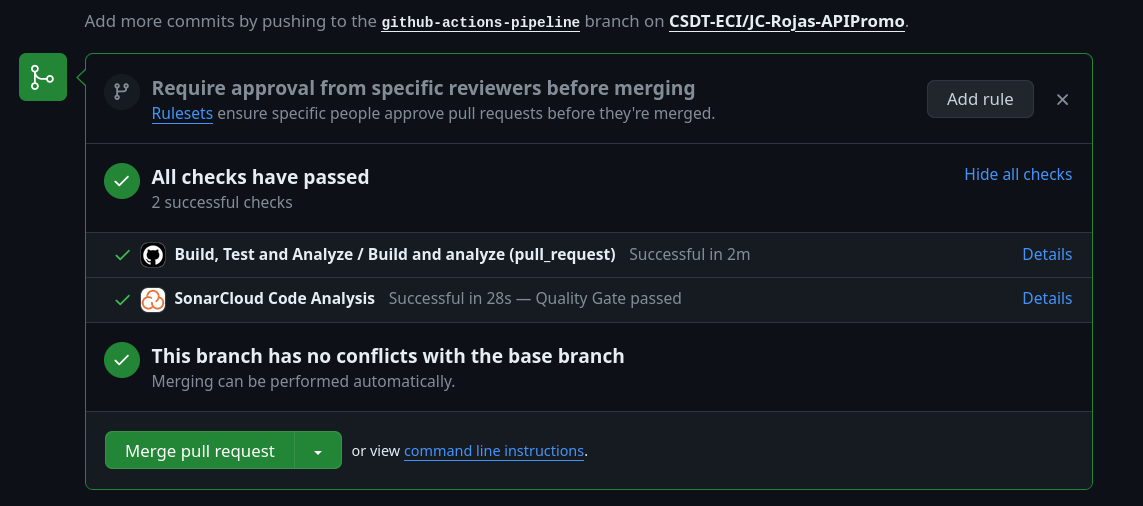
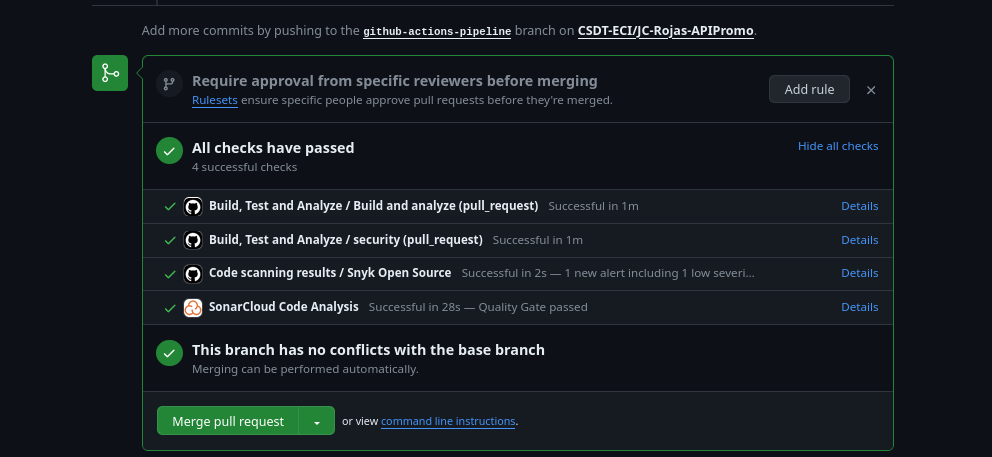
docs

diff --git a/CSDT-2024.md b/CSDT-2024.md
@@ -5,10 +5,11 @@ presente en el proyecto APIPromo tomado desde el siguiente [repositorio](https:/
 para eso se documentarán las distintas etapas de mejora en archivos independientes y se presentarán en la siguiente tabla
 
 
-| Etapa                                 | Descripción                                                                                                                                                                                                                                                               | Archivo                                                                          |
-|---------------------------------------|---------------------------------------------------------------------------------------------------------------------------------------------------------------------------------------------------------------------------------------------------------------------------|----------------------------------------------------------------------------------|
-| Análisis Inicial                      | Se inspecciona el proyecto original para entender el estado inicial del proyecto y las posibles mejoras en aspectos como el código, la documentación y las pruebas                                                                                                        | [Etapa1-estado-inicial.md](resources%2FEtapa1-estado-inicial.md)                 |
-| Análisis de clean code y prácticas XP | Sobre el código inicial se analiza el cumplimiento de algunos entádares de clean code como SOLID,YAGNI,KISS y DRY. Adicionalmente se analizan que prácticas XP podrían aportar a mejorar la calidad el proyecto y se realizan algunas modificaciones sobre el código      | [Etapa2-clean-code-y-XP.md](resources%2FEtapa2-clean-code-y-XP.md)               |
-| Preparación para pruebas              | Se realizaron ajustes sobre el proyecto para obtener una versión ejecutable, se actualizaron algunas configuraciones para facilitar el desarrollo                                                                                                                         | Pendiente                                                                        |
-| Deuda técnica en pruebas              | Sobre el código inicial se analizan la deuda técnica en pruebas, y se proponen las pruebas para el modulo core del proyecto donde se encuentra la lógica utilizada por distintos servicios, los modulos relacionados a user,promo o area se dejan para etapas posteriores | [Etapa3-testing-debt.md](resources%2FEtapa3-testing-debt.md)                     |
-| Análisis Devex, productividad e IA    | Se realiza el análisis del proyecto en terminos de devex y productividad, como los cambios hasta ahora han impactado en estos aspectos, adicionalmente se evalua las capacidades de github copilot para apoyar las tareas de desarrollo sobre el proyecto                 | [Etapa4-Devex-Productividad-IA.md](resources%2FEtapa4-Devex-Productividad-IA.md) |
+| Etapa                                     | Descripción                                                                                                                                                                                                                                                               | Archivo                                                                          |
+|-------------------------------------------|---------------------------------------------------------------------------------------------------------------------------------------------------------------------------------------------------------------------------------------------------------------------------|----------------------------------------------------------------------------------|
+| Análisis Inicial                          | Se inspecciona el proyecto original para entender el estado inicial del proyecto y las posibles mejoras en aspectos como el código, la documentación y las pruebas                                                                                                        | [Etapa1-estado-inicial.md](resources%2FEtapa1-estado-inicial.md)                 |
+| Análisis de clean code y prácticas XP     | Sobre el código inicial se analiza el cumplimiento de algunos entádares de clean code como SOLID,YAGNI,KISS y DRY. Adicionalmente se analizan que prácticas XP podrían aportar a mejorar la calidad el proyecto y se realizan algunas modificaciones sobre el código      | [Etapa2-clean-code-y-XP.md](resources%2FEtapa2-clean-code-y-XP.md)               |
+| Preparación para pruebas                  | Se realizaron ajustes sobre el proyecto para obtener una versión ejecutable, se actualizaron algunas configuraciones para facilitar el desarrollo                                                                                                                         | Pendiente                                                                        |
+| Deuda técnica en pruebas                  | Sobre el código inicial se analizan la deuda técnica en pruebas, y se proponen las pruebas para el modulo core del proyecto donde se encuentra la lógica utilizada por distintos servicios, los modulos relacionados a user,promo o area se dejan para etapas posteriores | [Etapa3-testing-debt.md](resources%2FEtapa3-testing-debt.md)                     |
+| Análisis Devex, productividad e IA        | Se realiza el análisis del proyecto en terminos de devex y productividad, como los cambios hasta ahora han impactado en estos aspectos, adicionalmente se evalua las capacidades de github copilot para apoyar las tareas de desarrollo sobre el proyecto                 | [Etapa4-Devex-Productividad-IA.md](resources%2FEtapa4-Devex-Productividad-IA.md) |
+| Deuda técnica de procesos: Github actions | Se realiza la implementación de un pipeline de integración continua (CI) en el que se construye el proyecto y se validan las pruebas, se realiza un análisis estático de código utilizando sonar y un análisis de seguridad usando Snyk                                   | [Etapa5-GithubActions.md](resources%2FEtapa5-GithubActions.md)                   |

diff --git a/resources/Etapa5-GithubActions.md b/resources/Etapa5-GithubActions.md
@@ -1,0 +1,71 @@
+# Deuda técnica de procesos
+El proyecto no cuenta con pipelines que faciliten la integración o el despliegue del mismo.
+por lo que en esta etapa se propone construir un pipeline que realice la continua construcción,
+ejecución de pruebas y análisis estático del código del proyecto, de esta manera se puede mejorar tanto la experiencia
+del desarrollador al ofrecer feedback continuo y oportuno como el proceso de desarrollo al añadir validación constante
+sobre la calidad del código.
+
+## Pipeline de integración continua
+Los requisitos mínimos para este pipeline de integración continua son los siguientes:
+- Construcción del proyecto (build)
+- Ejecución de pruebas (test)
+- Análisis de sonar (sonar)
+
+Adicionalmente se proponen las siguientes etapas
+- Asegurar los estándares de estilo de kotlin (klintCheck)
+- Análisis de seguridad del proyecto (snyk)
+
+## Detalles de la implementación y resultados
+Se utiliza `gradle` para administrar el ciclo de vida del proyecto y las etapas de build, test, sonar y ktlintCheck,
+se realizan las siguiente configuraciones sobre el proyecto de gradle para agrupar algunas de las tareas.
+
+```kotlin
+tasks.named("check") {
+    dependsOn(tasks.named("ktlintCheck"))
+}
+
+tasks.withType<SonarTask> {
+    dependsOn(tasks.named("check"))
+    dependsOn(tasks.named("jacocoTestReport"))
+}
+```
+
+Teniendo en cuenta que la fase de check construye el proyecto y ejecuta las pruebas, ahora adicionalmente 
+analizará los estándares de estilo. De esta forma basta con utilizar la fase `sonar` para cumplir con
+todas las etapas planteadas para el pipeline
+
+El análisis de sonar inicial obtuvo el siguiente resultado:
+
+![InitialAnalysis.png](img%2FgithubActions%2FInitialAnalysis.png)
+
+Dado que el proyecto no cuenta con la suficiente cobertura de pruebas, fue necesario modificar el quality gate
+para que permita continuar con el desarrollo, pero asegurando que la calidad se va a mantener, por lo que se decide reducir 
+la cobertura requerida a 30%, asegurando que la cobertura de pruebas no disminuirá en el futuro. Este quality gate debe
+evolucionar según mejore la cobertura del proyecto hasta alcanzar el 80% que se propone en el quality gate original.
+A continuación se muestra el quality gate utilizado
+
+![updatedQualityGate.png](img%2FgithubActions%2FupdatedQualityGate.png)
+
+Posteriormente a la actualización de el quality gate, vemos que el proyecto cumple con los requisitos, lo que permitiría
+continuar con el Pull Request
+
+![AnalysisAfterQualityGateUpdate.png](img%2FgithubActions%2FAnalysisAfterQualityGateUpdate.png)
+
+
+
+Para realizar el análisis de seguridad se utilizó la tarea `snyk/actions/gradle-jdk17@master` presente en el marketplace de
+github actions y que permite analizar vulnerabilidades en proyectos de gradle en Java 17. A continuación se presentan los resultados iniciales
+
+![snykInitialResult.png](img%2FgithubActions%2FsnykInitialResult.png)
+
+A partir de este análisis se identificaron vulnerabilidades en algunas de las dependencias relacionadas a spring, por lo
+que se actualizaron las dependencias a las versiones sugeridas para finalmente obtener que el PR pasa todas las validaciones
+requeridas y configuradas en el pipeline
+
+![PRPassingChecks.png](img%2FgithubActions%2FPRPassingChecks.png)
+
+## Conclusiones
+Github actions permite la implementación de flujos automatizados sobre los proyectos, en este caso la implementación de 
+un flujo de integración continua (CI) que permite verificar continuamente la calidad del código, generar feedback oportuno
+al desarrollador y evitar la introducción de errores y deuda técnica al proyecto. Si esto se suma con algunas reglas sobre
+las ramas y pull requests del proyecto de github, se puede lograr un mejor control sobre el código que va a la versión de master.
